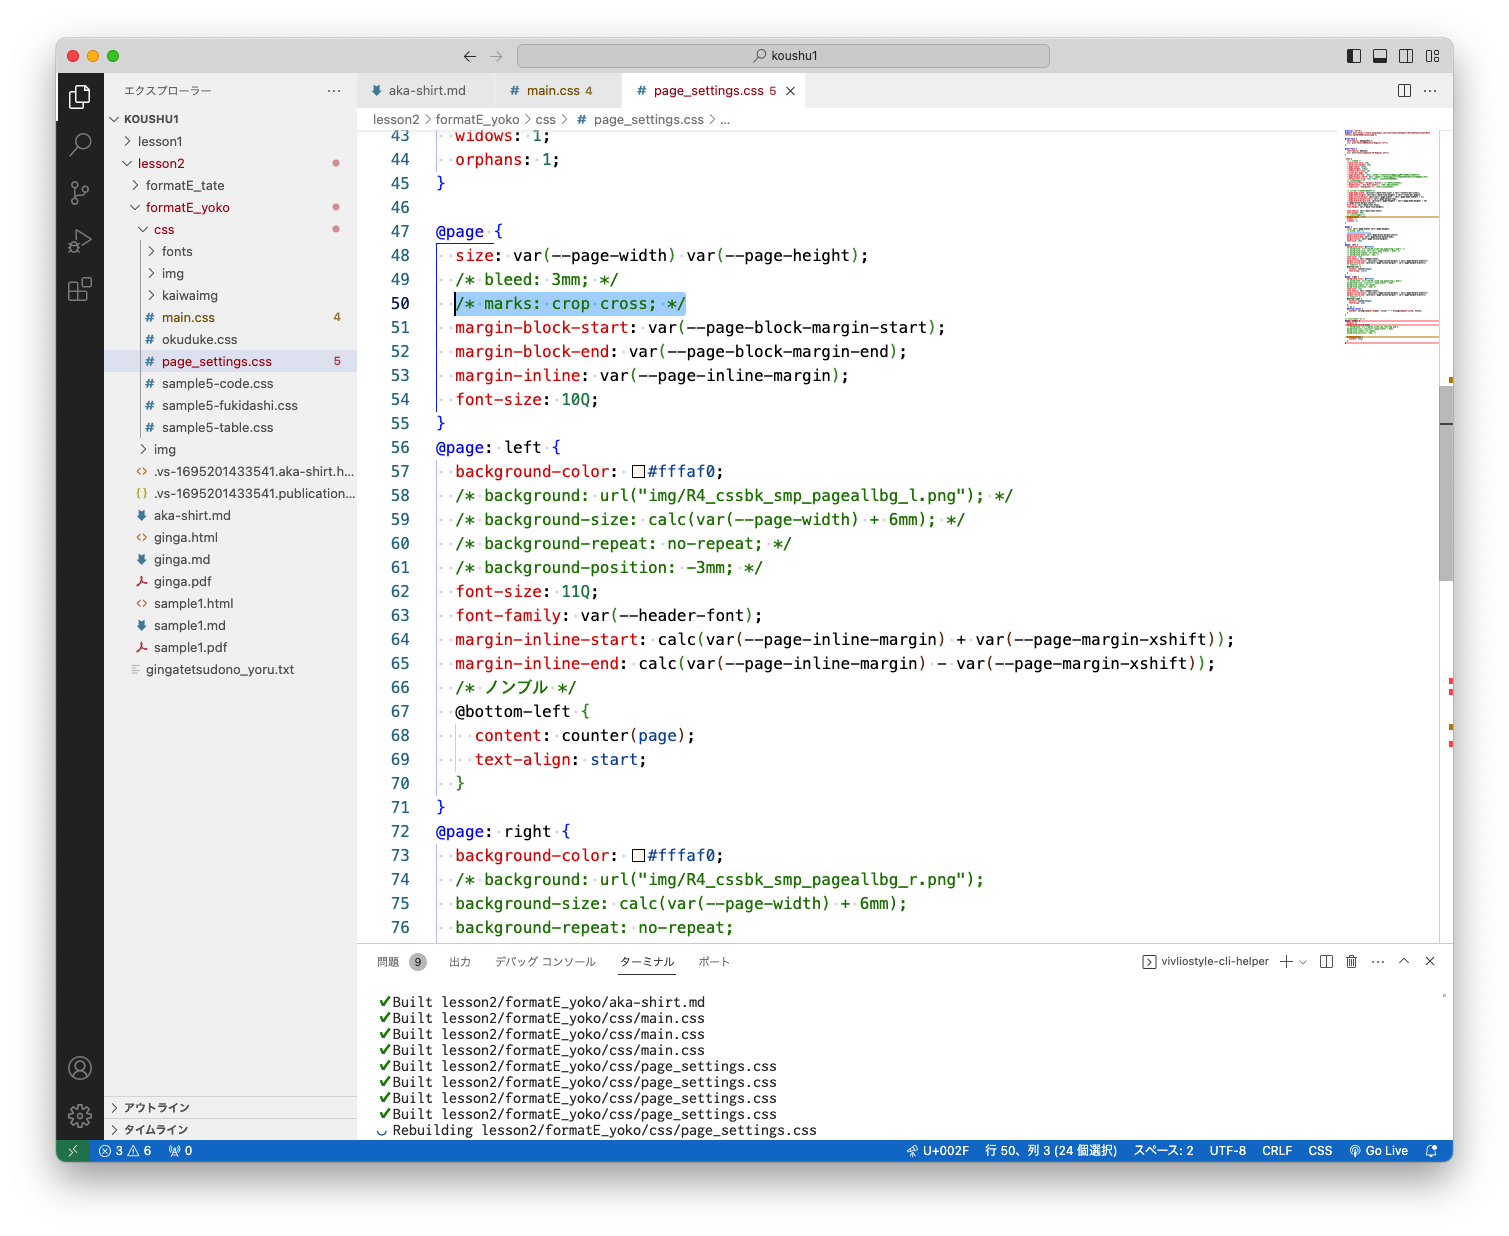
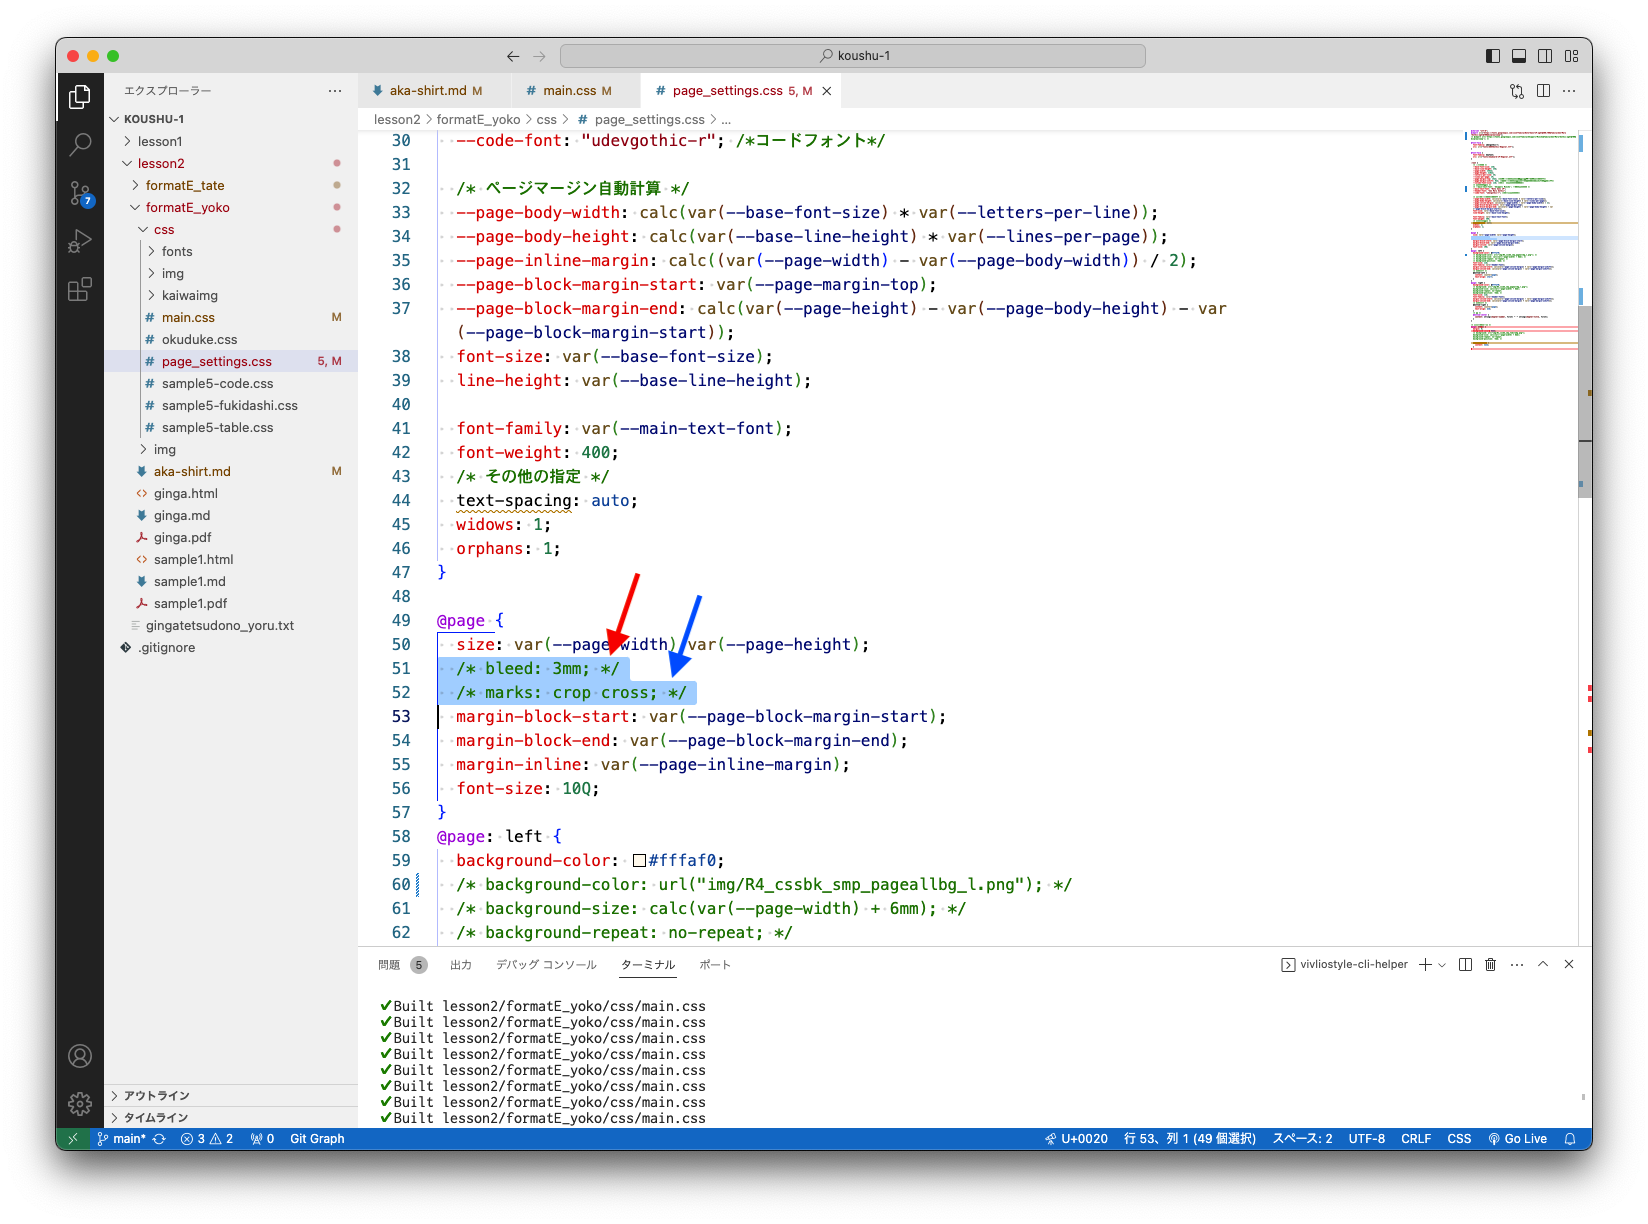
4章2節

diff --git a/ja/4-create-your-book-in-vivliostyle-2/2-page-background-settings.md b/ja/4-create-your-book-in-vivliostyle-2/2-page-background-settings.md
@@ -2,24 +2,25 @@
 
 1. page_settings.cssを開きます**（14:31）**
 2. 55行目、`@page: left {`以下を編集することで、左ページのスタイルを設定します。
-3. 56行目`/* background: url("img/R4_cssbk_smp_pageallbg_l.png"); */`とある行にカーソルを置いた状態で、Macでは`command`+`/`、Windowsでは`Ctrl`+`/`を入力します。
+3. 56行目`/* background: url("img/R4_cssbk_smp_pageallbg_l.png"); */`とある行（赤矢印）にカーソルを置いた状態で、Macでは`command`+`/`、Windowsでは`ctrl`+`/`を入力します。
 
 ![](./images/4-create-your-book-in-vivliostyle-2/2-page-background-settings/4-2-1.png)
 
 4. コメントアウトが外れました。
-  - ソースコードの一部をプログラムとして無効な状態にすることを「コメントアウト」といいます。CSSでは`/*`と`*/`で囲むことでコメントアウトできます。
-  - 反対に、有効な状態に戻すことを「コメントアウトを外す」といいます。
+  - ソースコードの一部をプログラムとして無効な状態にすることを「コメントアウト」といいます。CSSでは`/*`と`*/`で囲むとコメントアウトできます。
+  - ショートカットはMacでは`command`+`/`、Windowsでは`Ctrl`+`/`です。
+  - つまりコメントアウトとその解除がトグル（同じ操作で2つの状態が交互に切り替わる）になっています。
 
 ![](./images/4-create-your-book-in-vivliostyle-2/2-page-background-settings/4-2-2.png)
 
-5. 56行目を修正していきます。文字列`background`の右端にカーソルを置いた状態で、ハイフン`-`を入力すると、VSCodeのサジェスト機能が働いて、`background-`に続く可能性のあるプロパティ候補が表示されます。
+5. 56行目を修正していきます。文字列`background`の右端にカーソルを置いた状態で、ハイフン`-`を入力すると、VSCodeのサジェスト機能が働いて、`background-`に続く可能性のあるプロパティ候補が表示されます。**（18:27）**
   - 矢印キーでメニュー項目を移動、エンターキーで選択できます。
   - ここでは`background-color`を選択します。
 
 ![](./images/4-create-your-book-in-vivliostyle-2/2-page-background-settings/4-2-3.png)
 
-7. つづいて`background-color`の値を指定します。
-  - `background-color`の右端にカーソルを置いた状態でコロン`:`を入力すると、VSCodeのサジェスト機能が働いて、`background-color`に続く可能性のある、カラーを示す値の候補が表示されます。
+7. つづいて`background-color`の値（色）を指定します。
+  - `background-color`の右端にカーソルを置いた状態でコロン`:`を入力すると、VSCodeのサジェスト機能が働いて、`background-color`に続く可能性のある、値（色）の候補が表示されます。
   - 前項と同様に矢印キーでメニュー項目を移動、エンターキーで選択できます。
 
 ![](./images/4-create-your-book-in-vivliostyle-2/2-page-background-settings/4-2-4.png)

diff --git a/ja/4-create-your-book-in-vivliostyle-2/3-how-to-add-trim-marks.md b/ja/4-create-your-book-in-vivliostyle-2/3-how-to-add-trim-marks.md
@@ -1,10 +1,17 @@
-# トンボの設定方法
+# トンボの設定方法**（20:20）**
 
-## 
+1. 51行目`/* bleed: 3mm; */`（赤矢印）にカーソルを置いた状態で、Macでは`command`+`/`、Windowsでは`ctrl`+`/`を入力します。
+2. 続いて52行目`marks: crop cross;`（青矢印）にカーソルを置いた状態で、Macでは`command`+`/`、Windowsでは`ctrl`+`/`を入力します。
 
 ![](/images/4-create-your-book-in-vivliostyle-2/3-how-to-add-trim-marks/4-3-1.png)
 
+3. コメントアウトが外れました。ファイルを保存して、プレビューを表示させてみましょう。
+
 ![](/images/4-create-your-book-in-vivliostyle-2/3-how-to-add-trim-marks/4-3-2.png)
+
+4. ファイルを保存して、プレビューを表示させてみましょう。トンボが付きました。
+  - bleedプロパティは裁ち落としのサイズを指定するプロパティです。ここでは3ミリに指定しています。**（pp.220-221）**
+  - marksプロパティはトンボの種類を指定します。値`crop`はコーナートンボ、値`cross;`はセンタートンボを意味します。**（pp.220-221）**
 
 ![](/images/4-create-your-book-in-vivliostyle-2/3-how-to-add-trim-marks/4-3-3.png)
 

diff --git a/ja/3-create-your-book-in-vivliostyle-1/2-create-a-new-markdown-file.md b/ja/3-create-your-book-in-vivliostyle-1/2-create-a-new-markdown-file.md
@@ -35,7 +35,7 @@
 
 ## ファイルの先頭に、`ginga.md`のフロントマターをコピペする**（10:47）**
 
-1. フロントマターから第1章で使った`ginga.md`（赤丸）を選択して開きます。
+1. フロントマターから第2章で使った`ginga.md`（赤丸）を選択して開きます。
 2. `ginga.md`冒頭の`---`で囲まれた部分（フロントマター）をコピーします（赤四角）。
 
 ![](/images/3-create-your-book-in-vivliostyle-1/2-create-a-new-markdown-file/3-2-7.png)
